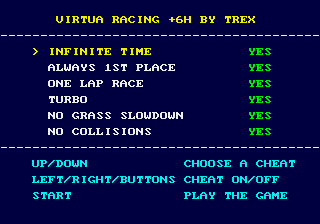
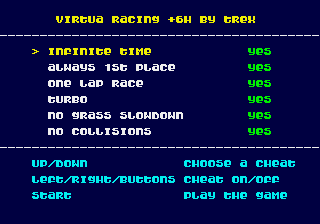
Trainer menu: switch to the Invasion font by VileR
Claude-Session: https://claude.ai/code/session_01KQHeCNsSEhXnp4aGYuCy92

diff --git a/trainer/README.md b/trainer/README.md
@@ -5,7 +5,7 @@ from `../sram/` with the Y/N trainer menu from
 a generic Mega Drive trainer menu in front of it. Records still save to battery SRAM.
 
 - Input ROM: `Virtua Racing (U) [SRAM].bin`, CRC32 `2D7EFF2F`
-- Output ROM: CRC32 `7DB5E289`, header checksum `$05CA`
+- Output ROM: CRC32 `BB24CE3F`, header checksum `$F55D`
 
 ![menu](screenshots/menu.png)
 
@@ -16,6 +16,9 @@ cheats and the instructions, which are in cyan. It shows at power-on and on
 Reset. Up/Down picks a cheat, Left/Right or any button (A, B, C, and X, Y,
 Z on a 6-button pad) turns it on or off, and Start runs the game. Every
 cheat starts off.
+
+The menu font is "Invasion" by VileR, from the
+[VGA text mode fonts](https://github.com/viler-int10h/vga-text-mode-fonts) collection.
 
 | Cheat | What it does |
 | --- | --- |

diff --git a/README.md b/README.md
@@ -46,7 +46,7 @@ No ROM is included. Apply a patch from [`patches/`](patches/) to your own copy o
 
 | Patch | Result | Result CRC32 |
 | --- | --- | --- |
-| `Virtua Racing (U) [SRAM] [T+6].bps` / `.ips` | Trainer + saving (the full hack) | `7DB5E289` |
+| `Virtua Racing (U) [SRAM] [T+6].bps` / `.ips` | Trainer + saving (the full hack) | `BB24CE3F` |
 | `Virtua Racing (U) [SRAM].bps` / `.ips` | Saving only, no trainer | `2D7EFF2F` |
 
 The BPS patches check the input ROM's CRC; the IPS patches don't, so check your ROM first.
